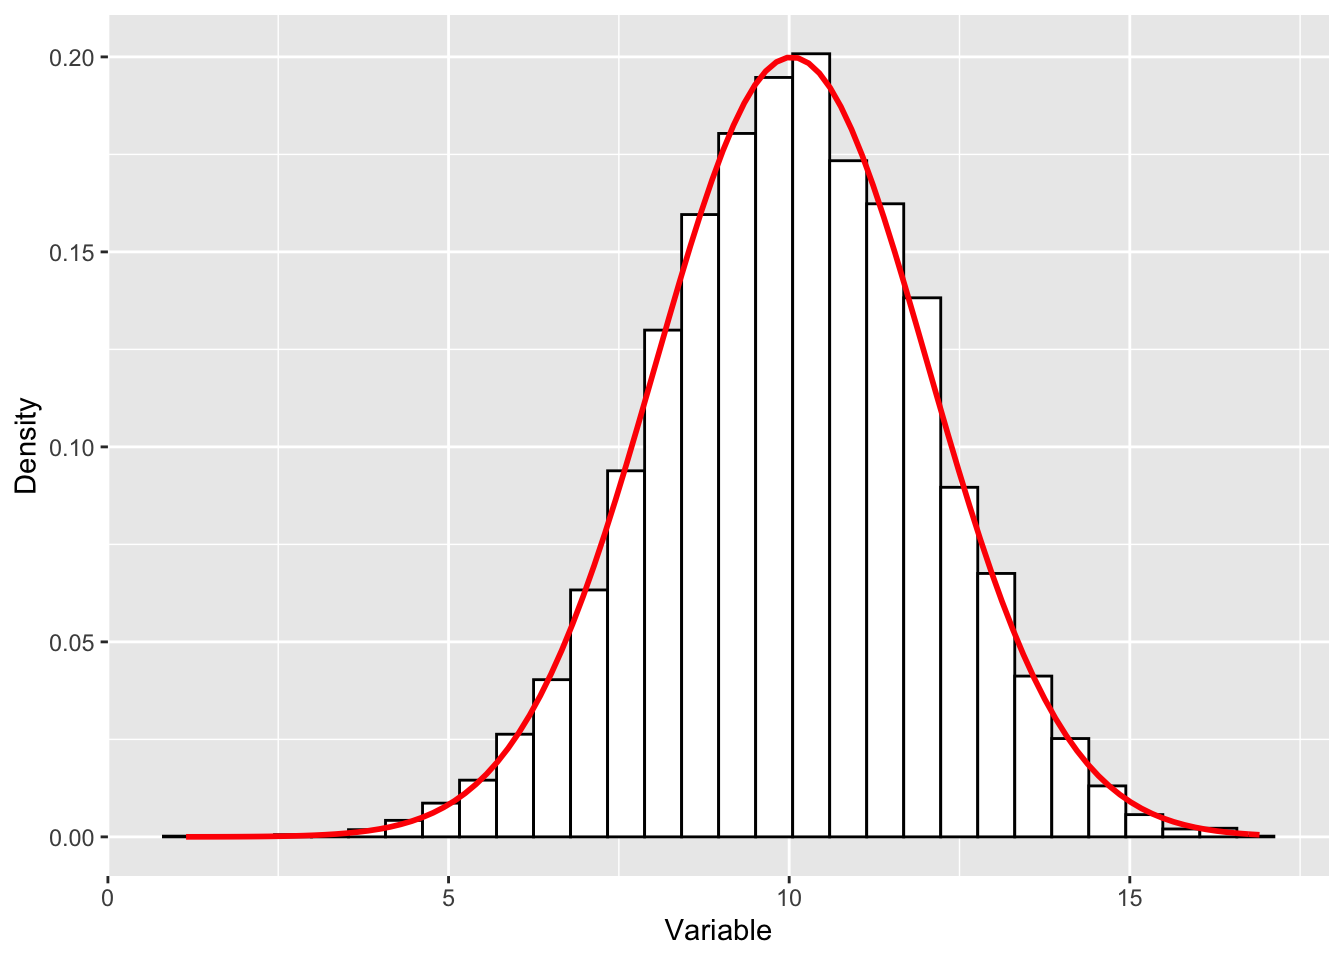
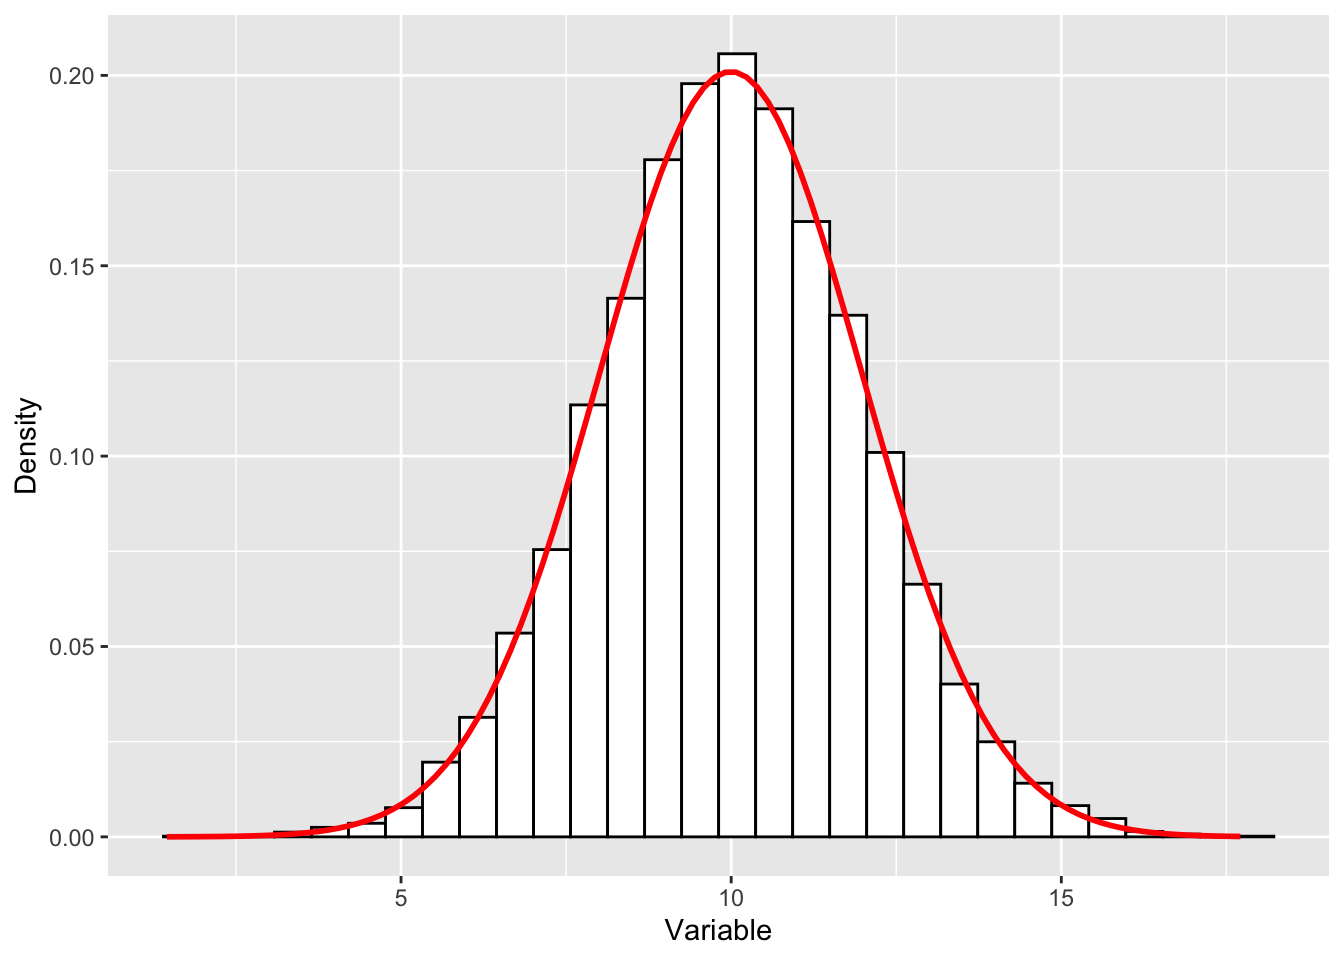
Build07_24_1050pm

diff --git a/T8_Distribucion_Normal.html b/T8_Distribucion_Normal.html
@@ -352,7 +352,7 @@ div.tocify {
   <a href="Descripción.html">Home</a>
 </li>
 <li>
-  <a href="schedule.html">Schedule</a>
+  <a href="schedule.html">Calendario</a>
 </li>
 <li class="dropdown">
   <a href="#" class="dropdown-toggle" data-toggle="dropdown" role="button" aria-expanded="false">
@@ -411,6 +411,9 @@ div.tocify {
     </li>
     <li>
       <a href="T8_Distribucion_Normal.html">T8 La Distribución Normal</a>
+    </li>
+    <li>
+      <a href="T13_Correlacion_Covarianza.html">T13 Correlación y Covarianza</a>
     </li>
   </ul>
 </li>
@@ -614,12 +617,12 @@ x=rnorm(10000, 10, 2)
 dfx=data.frame(x)
 head(dfx)</code></pre>
 <pre><code>##           x
-## 1  5.645687
-## 2 12.185079
-## 3 11.960775
-## 4 12.222828
-## 5 12.814369
-## 6  8.255735</code></pre>
+## 1  7.287769
+## 2  4.199937
+## 3 12.733028
+## 4 10.138977
+## 5 14.340236
+## 6 12.161251</code></pre>
 <pre class="r"><code>library(ggplot2)
 hist.x &lt;- ggplot(dfx, aes(x)) + 
   theme(legend.position = &quot;none&quot;) + 
@@ -698,18 +701,18 @@ ad.test(dlf2$day1)</code></pre>
 x=data.frame(x)
 head(x)</code></pre>
 <pre><code>##    x
-## 1 33
-## 2  5
-## 3 39
-## 4 33
-## 5 20
-## 6  8</code></pre>
+## 1 84
+## 2 15
+## 3 85
+## 4 90
+## 5 44
+## 6 61</code></pre>
 <pre class="r"><code>mean(x$x)</code></pre>
-<pre><code>## [1] 49.91</code></pre>
+<pre><code>## [1] 49.71</code></pre>
 <pre class="r"><code>var(x$x)</code></pre>
-<pre><code>## [1] 837.6989</code></pre>
+<pre><code>## [1] 799.3999</code></pre>
 <pre class="r"><code>sd(x$x)</code></pre>
-<pre><code>## [1] 28.94303</code></pre>
+<pre><code>## [1] 28.27366</code></pre>
 <pre class="r"><code>min(x$x)</code></pre>
 <pre><code>## [1] 1</code></pre>
 <pre class="r"><code>max(x$x)</code></pre>
@@ -735,34 +738,10 @@ head(x)</code></pre>
 <pre class="r"><code># the &quot;describe&quot; function is the &quot;psych&quot; package
 library(psych)
 describe(dlf2[,c(&quot;day1&quot;,&quot;day2&quot;,&quot;day3&quot;)]) </code></pre>
-<pre><code>## dlf2[, c(&quot;day1&quot;, &quot;day2&quot;, &quot;day3&quot;)] 
-## 
-##  3  Variables      809  Observations
-## --------------------------------------------------------------------------------
-## day1 
-##        n  missing distinct     Info     Mean      Gmd      .05      .10 
-##      809        0      199        1    1.771   0.7901    0.594    0.848 
-##      .25      .50      .75      .90      .95 
-##    1.310    1.790    2.230    2.670    2.906 
-## 
-## lowest : 0.02 0.05 0.11 0.23 0.26, highest: 3.38 3.41 3.44 3.58 3.69
-## --------------------------------------------------------------------------------
-## day2 
-##        n  missing distinct     Info     Mean      Gmd      .05      .10 
-##      263      546      102        1   0.9553   0.7761    0.140    0.200 
-##      .25      .50      .75      .90      .95 
-##    0.410    0.790    1.335    1.970    2.438 
-## 
-## lowest : 0.00 0.02 0.05 0.06 0.08, highest: 2.91 3.00 3.21 3.35 3.44
-## --------------------------------------------------------------------------------
-## day3 
-##        n  missing distinct     Info     Mean      Gmd      .05      .10 
-##      123      686       65    0.999   0.9765   0.7754    0.170    0.266 
-##      .25      .50      .75      .90      .95 
-##    0.440    0.760    1.525    1.904    2.146 
-## 
-## lowest : 0.02 0.08 0.11 0.14 0.17, highest: 2.29 2.55 2.70 3.02 3.41
-## --------------------------------------------------------------------------------</code></pre>
+<pre><code>##      vars   n mean   sd median trimmed  mad  min  max range skew kurtosis   se
+## day1    1 809 1.77 0.69   1.79    1.77 0.70 0.02 3.69  3.67 0.00    -0.42 0.02
+## day2    2 263 0.96 0.72   0.79    0.86 0.61 0.00 3.44  3.44 1.10     0.83 0.04
+## day3    3 123 0.98 0.71   0.76    0.90 0.61 0.02 3.41  3.39 1.01     0.59 0.06</code></pre>
 <pre class="r"><code># the &quot;stat.desc&quot; function is the &quot;pastec&quot; package
 stat.desc(dlf2[,c(&quot;day1&quot;,&quot;day2&quot;,&quot;day3&quot;)], basic=FALSE,norm=TRUE)</code></pre>
 <pre><code>##                      day1         day2         day3

diff --git a/T13_Correlacion_Covarianza.html b/T13_Correlacion_Covarianza.html
@@ -572,23 +572,23 @@ head(dlf2)</code></pre>
 <div id="while-the-covariance-is-the-cross-product-of-the-deviation" class="section level2">
 <h2>While the Covariance is the cross product of the deviation</h2>
 <p>[Covariance] <span class="math display">\[cov(x,y)=\frac { \sum { ({ x }_{ i }-\bar { x } _{ i })({ y }_{ i }-\bar { y } _{ i }) }  }{ n-1 } \]</span></p>
-<pre class="r"><code>x=c(5,4,4,6,8)
-y=c(8,9,10,13,15)
+<pre class="r"><code>x_val=c(5,4,4,6,8)
+y_val=c(8,9,10,13,15)
 Person=c(1,2,3,4,5)
-meanx=mean(x)
-df=data.frame(Person,x,y)
+meanx=mean(x_val)
+df=data.frame(Person,x_val,y_val)
 df</code></pre>
-<pre><code>##   Person x  y
-## 1      1 5  8
-## 2      2 4  9
-## 3      3 4 10
-## 4      4 6 13
-## 5      5 8 15</code></pre>
+<pre><code>##   Person x_val y_val
+## 1      1     5     8
+## 2      2     4     9
+## 3      3     4    10
+## 4      4     6    13
+## 5      5     8    15</code></pre>
 <pre class="r"><code>ggplot(df)+
-  geom_point(data=df, aes(x=Person,y=x),colour=&quot;Blue&quot;)+
-  geom_point(data=df,aes(x=Person,y=y), colour=&quot;red&quot;)+
-  geom_hline(aes(yintercept=mean(df$x)),colour=&quot;Blue&quot;)+
-geom_hline(aes(yintercept=mean(df$y)),colour=&quot;red&quot;)</code></pre>
+  geom_point(data=df, aes(x=Person,y=x_val),colour=&quot;Blue&quot;)+
+  geom_point(data=df,aes(x=Person,y=y_val), colour=&quot;red&quot;)+
+  geom_hline(aes(yintercept=mean(df$x_val)),colour=&quot;Blue&quot;)+
+geom_hline(aes(yintercept=mean(df$y_val)),colour=&quot;red&quot;)</code></pre>
 <p><img src="T13_Correlacion_Covarianza_files/figure-html/variance-1.png" width="672" /></p>
 <p>Because in most cases variables are collected having different measurement scales we have to standardize using the standard deviation</p>
 </div>
@@ -600,13 +600,13 @@ geom_hline(aes(yintercept=mean(df$y)),colour=&quot;red&quot;)</code></pre>
 <p><span class="math display">\[r=\frac { cov(x,y) }{ { s }_{ x }{ s }_{ y } } =\frac { \sum { ({ x }_{ i }-\bar { x } _{ i })({ y }_{ i }-\bar { y } _{ i }) }  }{ n-1{ s }_{ x }{ s }_{ y } }\]</span></p>
 <p>The function to calculate the correlation coefficient is “cor”</p>
 <p>The function to determine if the correlation vetween the 2 variables is significant (in other words, different from zero) is “cor.test”.</p>
-<pre class="r"><code>cor(df$x, df$y)</code></pre>
+<pre class="r"><code>cor(df$x_val, df$y_val)</code></pre>
 <pre><code>## [1] 0.8711651</code></pre>
-<pre class="r"><code>cor.test(df$x, df$y)</code></pre>
+<pre class="r"><code>cor.test(df$x_val, df$y_val)</code></pre>
 <pre><code>## 
 ##  Pearson&#39;s product-moment correlation
 ## 
-## data:  df$x and df$y
+## data:  df$x_val and df$y_val
 ## t = 3.0732, df = 3, p-value = 0.05443
 ## alternative hypothesis: true correlation is not equal to 0
 ## 95 percent confidence interval:

diff --git a/T1a_Poblacion_Muestra.html b/T1a_Poblacion_Muestra.html
@@ -352,7 +352,7 @@ div.tocify {
   <a href="Descripción.html">Home</a>
 </li>
 <li>
-  <a href="schedule.html">Schedule</a>
+  <a href="schedule.html">Calendario</a>
 </li>
 <li class="dropdown">
   <a href="#" class="dropdown-toggle" data-toggle="dropdown" role="button" aria-expanded="false">
@@ -408,6 +408,12 @@ div.tocify {
     </li>
     <li>
       <a href="T7_Frecuencias.html">T7 Pruebas de Bondad de Ajuste</a>
+    </li>
+    <li>
+      <a href="T8_Distribucion_Normal.html">T8 La Distribución Normal</a>
+    </li>
+    <li>
+      <a href="T13_Correlacion_Covarianza.html">T13 Correlación y Covarianza</a>
     </li>
   </ul>
 </li>
@@ -475,6 +481,11 @@ div.tocify {
 <h1>Griego y Latin</h1>
 <p>Cuando uno quiere referir a la población/parámetro uno utiliza las letras del alfabeto griego y cuando nos referimos a un muestreo se usa la letra del alfabeto en latín.</p>
 <p>En la siguiente tabla se observa algunos de los variables que veremos en los módulos siguientes. En los próximos módulos regresaremos al significado de estos parámetros.</p>
+<pre><code>## 
+## Attaching package: &#39;gt&#39;</code></pre>
+<pre><code>## The following object is masked from &#39;package:Hmisc&#39;:
+## 
+##     html</code></pre>
 <table>
 <thead>
 <tr>

diff --git a/2_Activity_R4DS.html b/2_Activity_R4DS.html
@@ -276,7 +276,7 @@ $(document).ready(function () {
   <a href="Descripción.html">Home</a>
 </li>
 <li>
-  <a href="schedule.html">Schedule</a>
+  <a href="schedule.html">Calendario</a>
 </li>
 <li class="dropdown">
   <a href="#" class="dropdown-toggle" data-toggle="dropdown" role="button" aria-expanded="false">
@@ -332,6 +332,12 @@ $(document).ready(function () {
     </li>
     <li>
       <a href="T7_Frecuencias.html">T7 Pruebas de Bondad de Ajuste</a>
+    </li>
+    <li>
+      <a href="T8_Distribucion_Normal.html">T8 La Distribución Normal</a>
+    </li>
+    <li>
+      <a href="T13_Correlacion_Covarianza.html">T13 Correlación y Covarianza</a>
     </li>
   </ul>
 </li>

diff --git a/schedule.html b/schedule.html
@@ -276,7 +276,7 @@ $(document).ready(function () {
   <a href="Descripción.html">Home</a>
 </li>
 <li>
-  <a href="schedule.html">Schedule</a>
+  <a href="schedule.html">Calendario</a>
 </li>
 <li class="dropdown">
   <a href="#" class="dropdown-toggle" data-toggle="dropdown" role="button" aria-expanded="false">
@@ -332,6 +332,12 @@ $(document).ready(function () {
     </li>
     <li>
       <a href="T7_Frecuencias.html">T7 Pruebas de Bondad de Ajuste</a>
+    </li>
+    <li>
+      <a href="T8_Distribucion_Normal.html">T8 La Distribución Normal</a>
+    </li>
+    <li>
+      <a href="T13_Correlacion_Covarianza.html">T13 Correlación y Covarianza</a>
     </li>
   </ul>
 </li>

diff --git a/Archivos_de_Datos.html b/Archivos_de_Datos.html
@@ -352,7 +352,7 @@ div.tocify {
   <a href="Descripción.html">Home</a>
 </li>
 <li>
-  <a href="schedule.html">Schedule</a>
+  <a href="schedule.html">Calendario</a>
 </li>
 <li class="dropdown">
   <a href="#" class="dropdown-toggle" data-toggle="dropdown" role="button" aria-expanded="false">
@@ -408,6 +408,12 @@ div.tocify {
     </li>
     <li>
       <a href="T7_Frecuencias.html">T7 Pruebas de Bondad de Ajuste</a>
+    </li>
+    <li>
+      <a href="T8_Distribucion_Normal.html">T8 La Distribución Normal</a>
+    </li>
+    <li>
+      <a href="T13_Correlacion_Covarianza.html">T13 Correlación y Covarianza</a>
     </li>
   </ul>
 </li>

diff --git a/Codigos_basicos_en_R.html b/Codigos_basicos_en_R.html
@@ -351,7 +351,7 @@ div.tocify {
   <a href="Descripción.html">Home</a>
 </li>
 <li>
-  <a href="schedule.html">Schedule</a>
+  <a href="schedule.html">Calendario</a>
 </li>
 <li class="dropdown">
   <a href="#" class="dropdown-toggle" data-toggle="dropdown" role="button" aria-expanded="false">
@@ -407,6 +407,12 @@ div.tocify {
     </li>
     <li>
       <a href="T7_Frecuencias.html">T7 Pruebas de Bondad de Ajuste</a>
+    </li>
+    <li>
+      <a href="T8_Distribucion_Normal.html">T8 La Distribución Normal</a>
+    </li>
+    <li>
+      <a href="T13_Correlacion_Covarianza.html">T13 Correlación y Covarianza</a>
     </li>
   </ul>
 </li>

diff --git a/Descripción.html b/Descripción.html
@@ -351,7 +351,7 @@ div.tocify {
   <a href="Descripción.html">Home</a>
 </li>
 <li>
-  <a href="schedule.html">Schedule</a>
+  <a href="schedule.html">Calendario</a>
 </li>
 <li class="dropdown">
   <a href="#" class="dropdown-toggle" data-toggle="dropdown" role="button" aria-expanded="false">
@@ -407,6 +407,12 @@ div.tocify {
     </li>
     <li>
       <a href="T7_Frecuencias.html">T7 Pruebas de Bondad de Ajuste</a>
+    </li>
+    <li>
+      <a href="T8_Distribucion_Normal.html">T8 La Distribución Normal</a>
+    </li>
+    <li>
+      <a href="T13_Correlacion_Covarianza.html">T13 Correlación y Covarianza</a>
     </li>
   </ul>
 </li>

diff --git a/Index.html b/Index.html
@@ -352,7 +352,7 @@ div.tocify {
   <a href="Descripción.html">Home</a>
 </li>
 <li>
-  <a href="schedule.html">Schedule</a>
+  <a href="schedule.html">Calendario</a>
 </li>
 <li class="dropdown">
   <a href="#" class="dropdown-toggle" data-toggle="dropdown" role="button" aria-expanded="false">
@@ -408,6 +408,12 @@ div.tocify {
     </li>
     <li>
       <a href="T7_Frecuencias.html">T7 Pruebas de Bondad de Ajuste</a>
+    </li>
+    <li>
+      <a href="T8_Distribucion_Normal.html">T8 La Distribución Normal</a>
+    </li>
+    <li>
+      <a href="T13_Correlacion_Covarianza.html">T13 Correlación y Covarianza</a>
     </li>
   </ul>
 </li>

diff --git a/Instalar-R-RStudio.html b/Instalar-R-RStudio.html
@@ -351,7 +351,7 @@ div.tocify {
   <a href="Descripción.html">Home</a>
 </li>
 <li>
-  <a href="schedule.html">Schedule</a>
+  <a href="schedule.html">Calendario</a>
 </li>
 <li class="dropdown">
   <a href="#" class="dropdown-toggle" data-toggle="dropdown" role="button" aria-expanded="false">
@@ -407,6 +407,12 @@ div.tocify {
     </li>
     <li>
       <a href="T7_Frecuencias.html">T7 Pruebas de Bondad de Ajuste</a>
+    </li>
+    <li>
+      <a href="T8_Distribucion_Normal.html">T8 La Distribución Normal</a>
+    </li>
+    <li>
+      <a href="T13_Correlacion_Covarianza.html">T13 Correlación y Covarianza</a>
     </li>
   </ul>
 </li>

diff --git a/Introducción_RMarkdown.html b/Introducción_RMarkdown.html
@@ -351,7 +351,7 @@ div.tocify {
   <a href="Descripción.html">Home</a>
 </li>
 <li>
-  <a href="schedule.html">Schedule</a>
+  <a href="schedule.html">Calendario</a>
 </li>
 <li class="dropdown">
   <a href="#" class="dropdown-toggle" data-toggle="dropdown" role="button" aria-expanded="false">
@@ -407,6 +407,12 @@ div.tocify {
     </li>
     <li>
       <a href="T7_Frecuencias.html">T7 Pruebas de Bondad de Ajuste</a>
+    </li>
+    <li>
+      <a href="T8_Distribucion_Normal.html">T8 La Distribución Normal</a>
+    </li>
+    <li>
+      <a href="T13_Correlacion_Covarianza.html">T13 Correlación y Covarianza</a>
     </li>
   </ul>
 </li>

diff --git a/R_basico.html b/R_basico.html
@@ -351,7 +351,7 @@ div.tocify {
   <a href="Descripción.html">Home</a>
 </li>
 <li>
-  <a href="schedule.html">Schedule</a>
+  <a href="schedule.html">Calendario</a>
 </li>
 <li class="dropdown">
   <a href="#" class="dropdown-toggle" data-toggle="dropdown" role="button" aria-expanded="false">
@@ -407,6 +407,12 @@ div.tocify {
     </li>
     <li>
       <a href="T7_Frecuencias.html">T7 Pruebas de Bondad de Ajuste</a>
+    </li>
+    <li>
+      <a href="T8_Distribucion_Normal.html">T8 La Distribución Normal</a>
+    </li>
+    <li>
+      <a href="T13_Correlacion_Covarianza.html">T13 Correlación y Covarianza</a>
     </li>
   </ul>
 </li>
